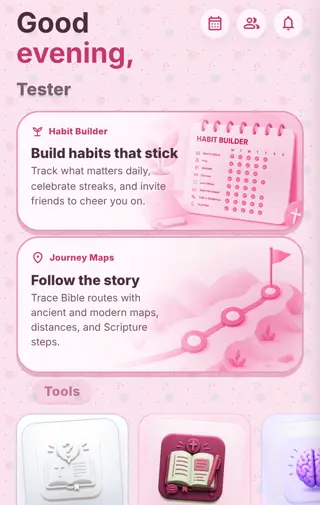
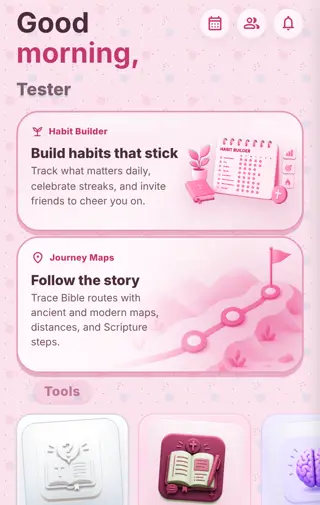
Light Chalkboard Home cards, pill and menu labels readable; re-shoot style previews
Claude-Session: https://claude.ai/code/session_015BwhMUAWrskwK1ZjEdZTJJ

Changed region(s): [[0.4688, 0.2079, 0.9688, 0.4752], [0.0312, 0.0594, 0.4375, 0.1485]]

diff --git a/style.css b/style.css
@@ -42121,3 +42121,8 @@ html:not(.is-dark):not([data-skin="chalkboard"]):not([data-skin="terminal"]) .ha
    picked chips get a brighter yellow or a darker chip to stay readable. */
 :root[data-skin="chalkboard"]:not(.is-dark) :is(.habits-kicker, .mem-secondary-btn, .mem-secondary-btn .material-symbols-outlined) { color: #fff1bd !important; }
 :root[data-skin="chalkboard"]:not(.is-dark) .rp-chip.active { background: color-mix(in srgb, var(--secondary-color) 14%, #2a453c) !important; }
+:root[data-skin="chalkboard"]:not(.is-dark) :is(.home-habit-widget, .home-journey-widget) {
+  background: linear-gradient(160deg, color-mix(in srgb, var(--secondary-color) 6%, #2f4d43), #2c483f 72%) !important; }
+:root[data-skin="chalkboard"]:not(.is-dark) :is(.you-pill, #profileJoinStat) { color: #fff6d8 !important; }
+:root[data-skin="chalkboard"]:not(.is-dark) .rrp-tile em, :root[data-skin="terminal"]:not(.is-dark) .rrp-tile em { color: color-mix(in srgb, var(--secondary-color) 55%, #fff); }
+:root[data-skin="chalkboard"]:not(.is-dark) .rrp-tile em { background: rgba(0, 0, 0, .28); }
